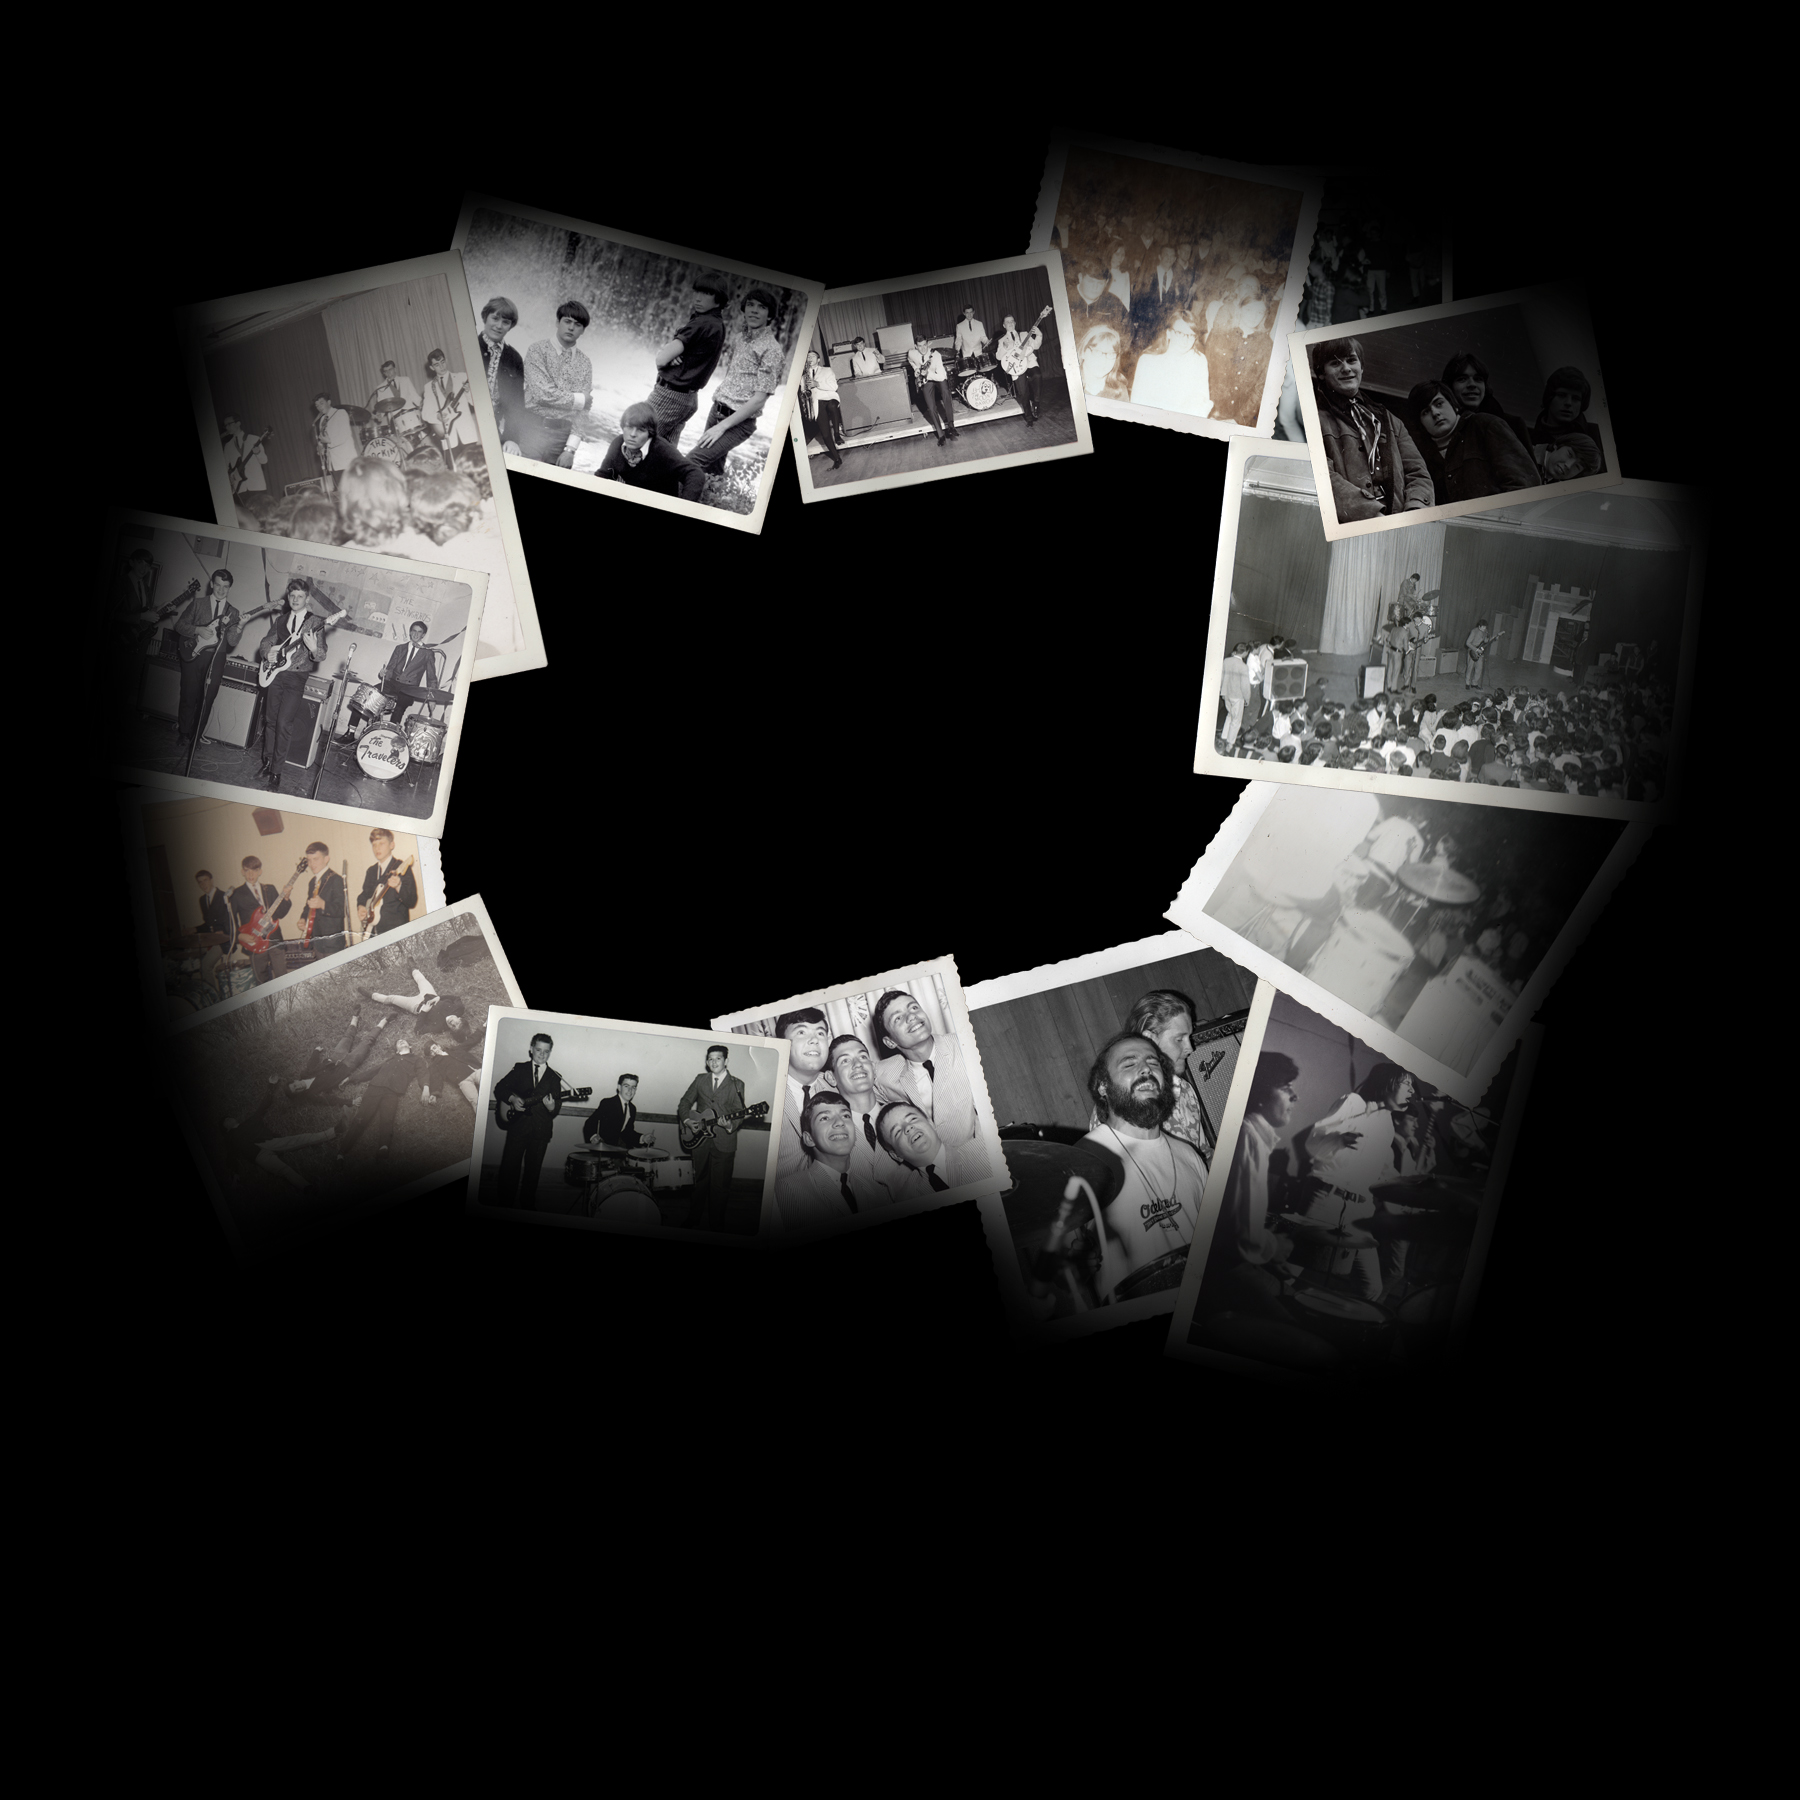
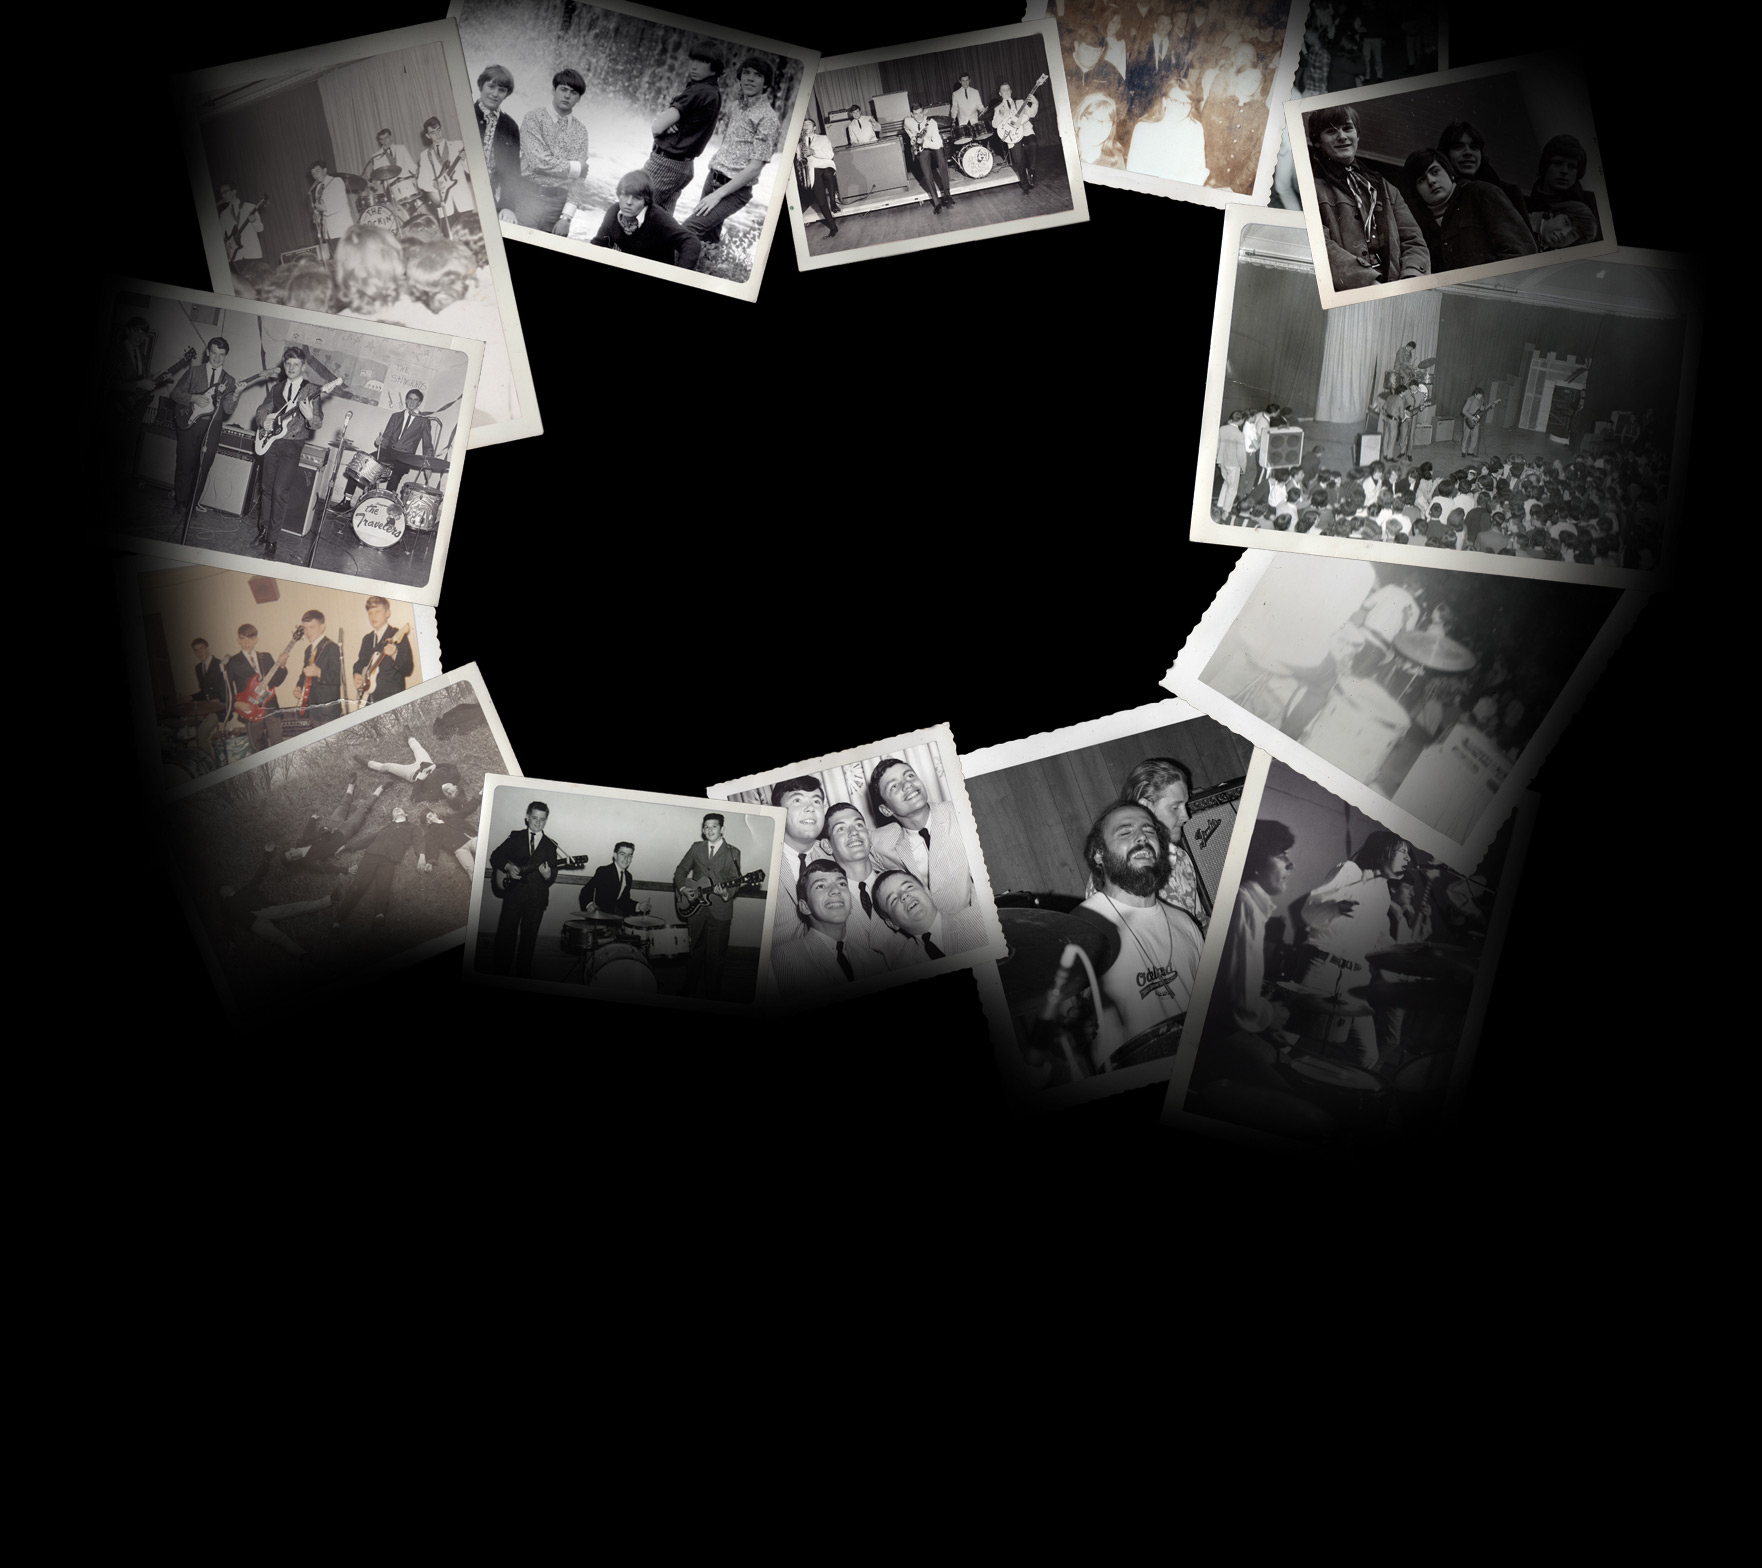
Resized a number of images Built the shop page Some style changes

diff --git a/development.html b/development.html
@@ -53,22 +53,37 @@
     var homeVideoPlayer, bandVideoPlayer
 
     function onYouTubeIframeAPIReady() {
+      var vars = {
+        'autoplay': 0,
+        'controls': 0 ,
+        'enablejsapi': 1,
+        'modestbranding': 1,
+        'rel': 0,
+        'showinfo': 0
+      }
+
       homeVideoPlayer = new YT.Player('homeVideo', {
         videoId: 'PO3cKEZ7UcE',
-        playerVars: { 'autoplay': 0, 'controls': 0 , 'enablejsapi': 1, 'modestbranding': 1, 'rel': 0, 'showinfo': 0 },
+        playerVars: vars,
         events: { 'onReady': homeVideoPlayerReady }
       })
 
       bandVideoPlayer = new YT.Player('bandVideo', {
         videoId: bandVideos[firstBand],
-        playerVars: { 'autoplay': 1, 'controls': 0 , 'enablejsapi': 1, 'modestbranding': 1, 'rel': 0, 'showinfo': 0 },
+        playerVars: vars,
         events: { 'onReady': bandVideoPlayerReady }
+      })
+
+      posterVideoPlayer = new YT.Player('posterVideo', {
+        videoId: 'SWYucDQ9uNY',
+        playerVars: vars,
+        events: { 'onReady': posterVideoPlayerReady }
       })
     }
 
     // Player Ready Control
 
-    var homeReady, bandReady
+    var homeReady, bandReady, posterReady
 
     function homeVideoPlayerReady() {
       homeReady = true
@@ -80,8 +95,13 @@
       onPlayerReady()
     }
 
+    function posterVideoPlayerReady() {
+      posterReady = true
+      onPlayerReady()
+    }
+
     function onPlayerReady() {
-      if(homeReady && bandReady) {
+      if(homeReady && bandReady & posterReady) {
         checkUrlForPage()
       }
     }
@@ -185,14 +205,12 @@
       </div>
       <div class="about">
         <div class="page-content row">
-          <div class="about-poster col-lg-5">
-            <img src="./images/poster.jpg"/>
+          <div class="left-side col-lg-5">
+            <img class="about-poster img-responsive" src="./images/poster.jpg"/>
           </div>
-          <div class="col-lg-7">
-            <div class="text-section">
-              <div class="about-headline"></div>
-              <div class="about-text"></div>
-            </div>
+          <div class="rigt-side col-lg-7">
+            <div class="about-headline"></div>
+            <div class="about-text"></div>
           </div>
         </div>
       </div>
@@ -222,10 +240,23 @@
           <h1>videos</h1>
       </div>
       <div class="shop">
-        <h1>shop</h1>
         <div class="row">
-          <div class="col-lg-6"><img class="shop-bill-img" src="./images/shop/Moraldo-12_0026C6.jpg"></div>
-          <div class="col-lg-6"><img class="shop-poster-img" src="./images/shop/Haines Photography 04.jpg"></div>
+          <div class="left-side col-lg-3">
+            <a href="https://www.bonanza.com/booths/billstuff?item_sort_options[custom_category_id]=626882"  target="_blank">
+              <img class="shop-bill img-responsive" src="./images/shop/BillStuff.jpg">
+            </a>
+            <a href="https://hainesphotography.printeli.com/Collections/132957" target="_blank">
+              <img class="shop-haines img-responsive" src="./images/shop/HainesPhotography.jpg">
+            </a>
+          </div>
+          <div class="right-side col-lg-9">
+            <div class="embed-responsive embed-responsive-16by9">
+              <div id="posterVideo"></div>
+            </div>
+            <a href="https://www.google.com" target="_blank">
+              <img class="shop-posters img-responsive" src="./images/shop/Posters.jpg">
+            </a>
+          </div>
         </div>
 
       </div>

diff --git a/css/custom.css b/css/custom.css
@@ -2,15 +2,10 @@
     Main
 ///////////////////////////////////////////////// */
 
-.col-lg-12, .col-lg-11, .col-lg-10, .col-lg-9, .col-lg-8, .col-lg-7, .col-lg-6, .col-lg-5, .col-lg-4, .col-lg-3, .col-lg-2, .col-lg-1 {
-  padding: 0;
-}
-
 body {
   background-color: black;
   background-image: url('../images/photoBKG_L.jpg');
   background-position: top center;
-  background-position-y: -250px;
   background-repeat: no-repeat;
   background-size: 115%;
 }
@@ -46,10 +41,19 @@ p {
   margin-bottom: 5px;
 }
 
-.row {
-  margin: 0;
+.embed-responsive {
+  filter: drop-shadow(3px 3px 0px #fdc600);
+  border: 5px solid #111111;
+  padding-bottom: 55.25%;
 }
 
+.left-side {
+  padding-right: 5px;
+}
+
+.right-side {
+  padding-left: 5px;
+}
 /* /////////////////////////////////////////////////
   Navbar
 ///////////////////////////////////////////////// */
@@ -123,23 +127,14 @@ ul.navbar-nav {
   About
 ///////////////////////////////////////////////// */
 
-.about-poster{
-  padding: 0;
-}
-
-.about-poster img {
-  box-shadow: 0px 1px 3px 0px #333;
-  max-width:  96.55%;
-  display: block;
+.about-poster {
+  filter: drop-shadow(3px 3px 0px #fdc600);
+  border: 5px solid #111111;
 }
 
 .text-underline {
   text-decoration-line: underline;
   text-decoration-color: #fdc600;
-}
-
-.text-section{
-  padding: 0;
 }
 
 .about-headline h3 {
@@ -206,26 +201,22 @@ ul.navbar-nav {
   margin-bottom: 10px;
 }
 
-.embed-responsive {
-  filter: drop-shadow(3px 3px 0px #fdc600);
-  border: 5px solid #111111;
-  padding-bottom: 55.25%;
-
-}
-
 /* /////////////////////////////////////////////////
   Shop
 ///////////////////////////////////////////////// */
 
-.shop img {
-  width: 60%
+.shop .left-side img {
+  padding: 13px 0;
+  background-color: black;
 }
 
-.shop-bill-img {
-  padding-right: 5px;
-  float: right;
+.shop .left-side img,
+.shop .right-side img {
+  filter: drop-shadow(3px 3px 0px #fdc600);
+  border: 5px solid #111111;
 }
 
-.shop-poster-img {
-  padding-left: 5px;
+.shop-haines,
+.shop-posters {
+  margin-top: 10px;
 }

diff --git a/todo.html b/todo.html
@@ -1,0 +1,5 @@
+1. Build Shop Page with Poster video and links to shops
+3. Add links to facebook youtube
+4. Build videos page for music videos
+2. Change Bands page to posters as links to the bands
+5. Add contact page
